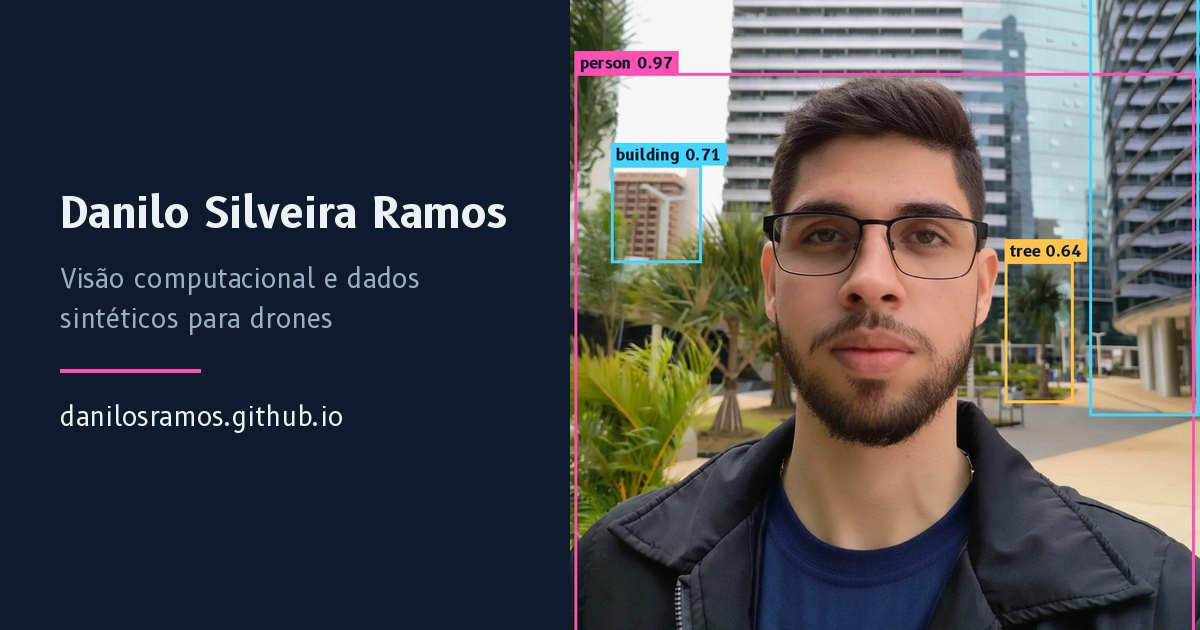
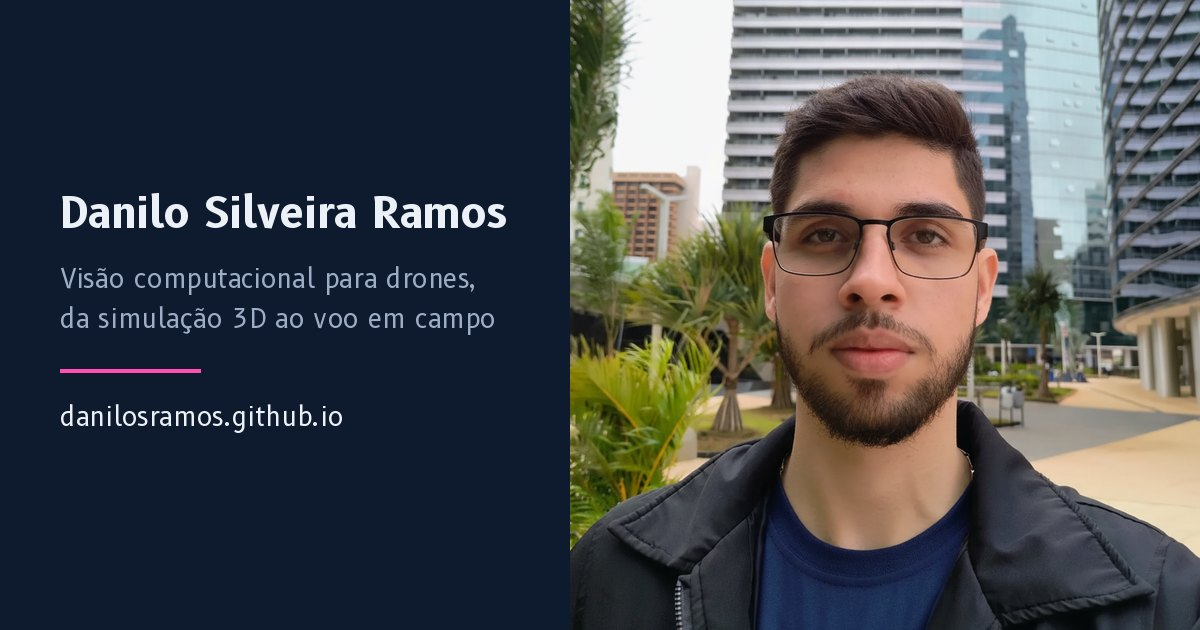
Atualiza o portfólio: foto sem anotação, atividades e certificados
- Remove as caixas do detector de objetos da foto (e o botão e a legenda)
- Descreve o trabalho na Global Drones: ambientes 3D, testes de YOLO e
  RF-DETR, orçamentos de equipamentos e pilotagem de drones
- Remove o projeto Meninas Digitais
- Troca cursos e certificados pelos cinco principais

Claude-Session: https://claude.ai/code/session_01Jno4X66Je8qHB2arBj1S2n

Changed region(s): [[0.4625, 0.0, 1.0, 1.0], [0.0308, 0.4222, 0.4008, 0.5429]]

diff --git a/index.html b/index.html
@@ -4,7 +4,7 @@
   <meta charset="utf-8">
   <meta name="viewport" content="width=device-width, initial-scale=1">
   <title>Danilo Silveira Ramos | Portfólio</title>
-  <meta name="description" content="Portfólio de Danilo Silveira Ramos: dados sintéticos e visão computacional para drones. Estudante de TIC na UFSC e Simulation & Dataset Developer na Global Drones.">
+  <meta name="description" content="Portfólio de Danilo Silveira Ramos: visão computacional para drones, da simulação 3D ao voo em campo. Estudante de TIC na UFSC e Simulation & Dataset Developer na Global Drones.">
   <meta name="author" content="Danilo Silveira Ramos">
   <link rel="canonical" href="https://danilosramos.github.io/">
   <link rel="icon" href="assets/img/favicon.svg" type="image/svg+xml">
@@ -13,7 +13,7 @@
 
   <meta property="og:type" content="profile">
   <meta property="og:title" content="Danilo Silveira Ramos">
-  <meta property="og:description" content="Dados sintéticos e visão computacional para drones.">
+  <meta property="og:description" content="Visão computacional para drones, da simulação 3D ao voo em campo.">
   <meta property="og:url" content="https://danilosramos.github.io/">
   <meta property="og:image" content="https://danilosramos.github.io/assets/img/og.jpg">
   <meta property="og:image:width" content="1200">
@@ -54,7 +54,7 @@
     "url": "https://danilosramos.github.io/",
     "image": "https://danilosramos.github.io/assets/img/danilo.jpg",
     "sameAs": ["https://www.linkedin.com/in/danilo-silveira-ramos", "https://github.com/danilosramos"],
-    "knowsAbout": ["Computer vision", "Synthetic data generation", "Drones", "Unreal Engine 5", "Blender"]
+    "knowsAbout": ["Computer vision", "Object detection", "YOLO", "RF-DETR", "Synthetic data generation", "Unreal Engine 5", "Blender", "Drone piloting"]
   }
   </script>
 </head>
@@ -85,8 +85,8 @@
     <section class="hero wrap" id="inicio">
       <div class="hero-text">
         <h1>Danilo Silveira Ramos</h1>
-        <p class="lead" data-l="pt">Crio ambientes 3D que viram dados para treinar visão computacional em drones.</p>
-        <p class="lead" data-l="en">I build 3D worlds that become training data for computer vision on drones.</p>
+        <p class="lead" data-l="pt">Trabalho com visão computacional para drones, da simulação 3D ao voo em campo.</p>
+        <p class="lead" data-l="en">I work on computer vision for drones, from 3D simulation to flying in the field.</p>
         <p class="sub" data-l="pt">Estudo Tecnologias da Informação e Comunicação na UFSC e trabalho como Simulation &amp; Dataset Developer na Global Drones.</p>
         <p class="sub" data-l="en">I study Information and Communication Technologies at UFSC, in Brazil, and work as a Simulation &amp; Dataset Developer at Global Drones.</p>
         <ul class="links">
@@ -96,43 +96,15 @@
         </ul>
       </div>
 
-      <figure class="sample" data-ann="on">
-        <div class="frame">
-          <picture>
-            <source type="image/webp" srcset="assets/img/danilo-600.webp 600w, assets/img/danilo.webp 864w" sizes="(min-width: 900px) 440px, 88vw">
-            <img src="assets/img/danilo.jpg" width="864" height="1184"
-                 alt="Foto de Danilo Silveira Ramos, de óculos e jaqueta escura, em frente a prédios espelhados e palmeiras."
-                 data-attr="alt"
-                 data-pt="Foto de Danilo Silveira Ramos, de óculos e jaqueta escura, em frente a prédios espelhados e palmeiras."
-                 data-en="Photo of Danilo Silveira Ramos, wearing glasses and a dark jacket, in front of glass buildings and palm trees.">
-          </picture>
-          <svg class="boxes" viewBox="0 0 864 1184" aria-hidden="true" focusable="false">
-            <g class="det" style="--i:0;--c:var(--cls-person)">
-              <path class="box" pathLength="1" d="M6 330H856V1180H6Z"/>
-              <g class="tag"><rect x="6" y="294" width="170" height="36"/><text x="15" y="320">person 0.97</text></g>
-            </g>
-            <g class="det" style="--i:1;--c:var(--cls-building)">
-              <path class="box" pathLength="1" d="M712 2H862V800H712Z"/>
-              <g class="tag"><rect x="674" y="2" width="188" height="36"/><text x="683" y="28">building 0.88</text></g>
-            </g>
-            <g class="det" style="--i:2;--c:var(--cls-building)">
-              <path class="box" pathLength="1" d="M56 456H180V590H56Z"/>
-              <g class="tag"><rect x="56" y="420" width="188" height="36"/><text x="65" y="446">building 0.71</text></g>
-            </g>
-            <g class="det" style="--i:3;--c:var(--cls-tree)">
-              <path class="box" pathLength="1" d="M596 588H690V782H596Z"/>
-              <g class="tag"><rect x="596" y="552" width="135" height="36"/><text x="605" y="578">tree 0.64</text></g>
-            </g>
-          </svg>
-        </div>
-        <figcaption>
-          <p data-l="pt">Foto real com o tipo de anotação que um detector de objetos aprende. No trabalho, gero milhares de imagens assim, só que sintéticas.</p>
-          <p data-l="en">A real photo with the kind of annotation an object detector learns from. At work I generate thousands of images like this, only synthetic.</p>
-          <button type="button" class="ann-toggle" data-toggle-ann>
-            <span class="when-on"><span data-l="pt">Ocultar anotação</span><span data-l="en">Hide annotation</span></span>
-            <span class="when-off"><span data-l="pt">Mostrar anotação</span><span data-l="en">Show annotation</span></span>
-          </button>
-        </figcaption>
+      <figure class="portrait">
+        <picture>
+          <source type="image/webp" srcset="assets/img/danilo-600.webp 600w, assets/img/danilo.webp 864w" sizes="(min-width: 900px) 440px, 88vw">
+          <img src="assets/img/danilo.jpg" width="864" height="1184"
+               alt="Foto de Danilo Silveira Ramos, de óculos e jaqueta escura, em frente a prédios espelhados e palmeiras."
+               data-attr="alt"
+               data-pt="Foto de Danilo Silveira Ramos, de óculos e jaqueta escura, em frente a prédios espelhados e palmeiras."
+               data-en="Photo of Danilo Silveira Ramos, wearing glasses and a dark jacket, in front of glass buildings and palm trees.">
+        </picture>
       </figure>
     </section>
 
@@ -144,11 +116,11 @@
           <div class="prose">
             <div data-l="pt">
               <p>Sou estudante de Tecnologias da Informação e Comunicação na UFSC Araranguá, com formatura prevista para dezembro de 2028. Comecei em Engenharia de Computação, onde descobri a visão computacional, e hoje trabalho com ela na prática.</p>
-              <p>Na Global Drones, crio cenários 3D fotorrealistas em Unreal Engine 5 e Blender para gerar imagens sintéticas que treinam modelos de detecção para drones autônomos. Antes disso, criei modelos 3D de patologias para realidade mista no LabTeC/UFSC, avaliei respostas de IA em português e inglês na Outlier e produzi conteúdo de computação e matemática para o Quizlet.</p>
+              <p>Na Global Drones, crio ambientes 3D fotorrealistas em Unreal Engine 5 e Blender para gerar imagens de treino, testo algoritmos de detecção de objetos como YOLO e RF-DETR, faço orçamentos de equipamentos e sou piloto de drone nos testes em campo. Antes disso, criei modelos 3D de patologias para realidade mista no LabTeC/UFSC, avaliei respostas de IA em português e inglês na Outlier e produzi conteúdo de computação e matemática para o Quizlet.</p>
             </div>
             <div data-l="en">
               <p>I'm an Information and Communication Technologies student at UFSC Araranguá, Brazil, graduating in December 2028. I started out in Computer Engineering, where I found computer vision, and now I work with it every day.</p>
-              <p>At Global Drones, I build photorealistic 3D scenes in Unreal Engine 5 and Blender to generate synthetic images that train detection models for autonomous drones. Before that, I created 3D pathology models for mixed reality at LabTeC/UFSC, evaluated AI responses in Portuguese and English at Outlier, and wrote computing and math content for Quizlet.</p>
+              <p>At Global Drones, I build photorealistic 3D environments in Unreal Engine 5 and Blender to generate training images, test object detection algorithms such as YOLO and RF-DETR, prepare equipment budgets and fly drones as a pilot in field tests. Before that, I created 3D pathology models for mixed reality at LabTeC/UFSC, evaluated AI responses in Portuguese and English at Outlier, and wrote computing and math content for Quizlet.</p>
             </div>
           </div>
           <dl class="facts">
@@ -189,7 +161,7 @@
           <li class="wp is-now">
             <svg class="wp-mark" viewBox="0 0 24 24" aria-hidden="true"><path d="M12 1 14.6 9.4 23 12 14.6 14.6 12 23 9.4 14.6 1 12 9.4 9.4Z"/></svg>
             <p class="wp-when"><span data-l="pt">2026, agora</span><span data-l="en">2026, now</span></p>
-            <p class="wp-what"><span data-l="pt">Dados sintéticos e visão computacional para drones na Global Drones</span><span data-l="en">Synthetic data and computer vision for drones at Global Drones</span></p>
+            <p class="wp-what"><span data-l="pt">Simulação 3D, testes de detecção e voo de drones na Global Drones</span><span data-l="en">3D simulation, detection tests and drone flights at Global Drones</span></p>
           </li>
           <li class="wp">
             <svg class="wp-mark" viewBox="0 0 24 24" aria-hidden="true"><path d="M12 1 14.6 9.4 23 12 14.6 14.6 12 23 9.4 14.6 1 12 9.4 9.4Z"/></svg>
@@ -228,16 +200,18 @@
               <h4>Simulation &amp; Dataset Developer</h4>
               <p class="xp-org">Global Drones</p>
               <ul data-l="pt">
-                <li>Crio ambientes 3D fotorrealistas e cenários aéreos em Unreal Engine 5 para gerar datasets sintéticos de visão computacional.</li>
-                <li>Modelo, texturizo e otimizo assets 3D (drones, aves e obstáculos) em Blender e Substance Painter.</li>
-                <li>Gero imagens anotadas com variações de luz e clima para reduzir a diferença entre simulação e mundo real em um sistema de Detect and Avoid (DAA).</li>
+                <li>Crio ambientes 3D fotorrealistas e cenários aéreos em Unreal Engine 5 e Blender, com assets próprios (drones, aves e obstáculos), para gerar datasets sintéticos com variações de luz e clima para um sistema de Detect and Avoid (DAA).</li>
                 <li>Desenvolvi um pipeline em Python que exporta mais de 8.000 imagens anotadas no formato YOLO.</li>
+                <li>Testo algoritmos de detecção de objetos, como YOLO e RF-DETR.</li>
+                <li>Faço orçamentos de equipamentos para o projeto.</li>
+                <li>Sou piloto de drone nos testes em campo.</li>
               </ul>
               <ul data-l="en">
-                <li>Build photorealistic 3D environments and aerial scenarios in Unreal Engine 5 to generate synthetic computer vision datasets.</li>
-                <li>Model, texture and optimize 3D assets (drones, birds and obstacles) in Blender and Substance Painter.</li>
-                <li>Generate annotated images across lighting and weather conditions to narrow the sim-to-real gap for a Detect and Avoid (DAA) system.</li>
+                <li>Build photorealistic 3D environments and aerial scenarios in Unreal Engine 5 and Blender, with custom assets (drones, birds and obstacles), to generate synthetic datasets across lighting and weather conditions for a Detect and Avoid (DAA) system.</li>
                 <li>Built a Python pipeline that exports 8,000+ annotated images in YOLO format.</li>
+                <li>Test object detection algorithms such as YOLO and RF-DETR.</li>
+                <li>Prepare equipment budgets for the project.</li>
+                <li>Fly drones as a pilot in field tests.</li>
               </ul>
               <p class="note"><span data-l="pt">Por contrato de confidencialidade, este trabalho aparece só em texto.</span><span data-l="en">Under a confidentiality agreement, this work is described in text only.</span></p>
             </div>
@@ -321,11 +295,6 @@
             <p class="stack">Blender, Substance Painter, HoloLens 2</p>
           </li>
           <li>
-            <h4><span data-l="pt">Plataforma de ensino on-line (Meninas Digitais)</span><span data-l="en">Online learning platform (Meninas Digitais)</span></h4>
-            <p><span data-l="pt">Plataforma full-stack de cursos on-line.</span><span data-l="en">Full-stack platform for online courses.</span></p>
-            <p class="stack">TypeScript, NestJS, Next.js, Docker</p>
-          </li>
-          <li>
             <h4>KetMaker</h4>
             <p><span data-l="pt">Simulador de circuitos quânticos.</span><span data-l="en">Quantum circuit simulator.</span></p>
             <p class="stack">Python, Flask</p>
@@ -338,26 +307,35 @@
         </ul>
         <p class="more"><span data-l="pt">Outros projetos no</span><span data-l="en">More projects on</span> <a href="https://github.com/danilosramos" target="_blank" rel="noopener">GitHub</a>.</p>
 
-        <div class="two-col">
-          <div>
-            <h3><span data-l="pt">Cursos e certificados</span><span data-l="en">Courses and certificates</span></h3>
-            <ul class="plain" lang="en">
-              <li>Introduction to Prompt Engineering</li>
-              <li>Artificial Intelligence: Your Ally in the Java and Cloud Journey</li>
-              <li>Java Programming Language Fundamentals</li>
-              <li>Java Control Structures</li>
-            </ul>
-          </div>
-          <div>
-            <h3><span data-l="pt">Eventos</span><span data-l="en">Events</span></h3>
-            <ul class="plain">
-              <li><span data-l="pt">Summit Cidades 2025: apresentação do HoloAnaPath</span><span data-l="en">Summit Cidades 2025: presented HoloAnaPath</span></li>
-              <li><span data-l="pt">SNCT 2025 (Semana Nacional de Ciência e Tecnologia): apresentação do HoloAnaPath</span><span data-l="en">SNCT 2025 (Brazil's National Science and Technology Week): presented HoloAnaPath</span></li>
-              <li><span data-l="pt">Startup Weekend: duas participações</span><span data-l="en">Startup Weekend: took part twice</span></li>
-              <li>ACIVA Career Fair 2024</li>
-            </ul>
-          </div>
-        </div>
+        <h3><span data-l="pt">Cursos e certificados</span><span data-l="en">Courses and certificates</span></h3>
+        <ul class="projects certs">
+          <li>
+            <h4><span data-l="pt">Semana Nacional de Ciência e Tecnologia 2025 (SNCT)</span><span data-l="en">National Science and Technology Week 2025 (SNCT)</span></h4>
+            <p><span data-l="pt">Apresentação do projeto HoloAnaPath.</span><span data-l="en">Presented the HoloAnaPath project.</span></p>
+            <p class="stack"><span data-l="pt">MCTI, out. 2025</span><span data-l="en">MCTI, Oct 2025</span></p>
+          </li>
+          <li>
+            <h4 lang="en">Pre-MBA in Sales and Marketing with AI</h4>
+            <p><span data-l="pt">Vendas, marketing e negócios com apoio de IA.</span><span data-l="en">Sales, marketing and business with AI.</span></p>
+            <p class="stack"><span data-l="pt">Faculdade Hub, ago. 2025</span><span data-l="en">Faculdade Hub, Aug 2025</span></p>
+          </li>
+          <li>
+            <h4>Summit Cidades 2025</h4>
+            <p><span data-l="pt">Apresentação do projeto HoloAnaPath.</span><span data-l="en">Presented the HoloAnaPath project.</span></p>
+            <p class="stack"><span data-l="pt">Summit Cidades Brasil, jun. 2025</span><span data-l="en">Summit Cidades Brasil, Jun 2025</span></p>
+          </li>
+          <li>
+            <h4 lang="en">Masterclass: The Rules of the Game</h4>
+            <p><span data-l="pt">Psicologia e desenvolvimento pessoal.</span><span data-l="en">Psychology and personal development.</span></p>
+            <p class="stack"><span data-l="pt">Reservatório de Dopamina, jan. 2025</span><span data-l="en">Reservatório de Dopamina, Jan 2025</span></p>
+          </li>
+          <li>
+            <h4 lang="en">3D Modeling and Animation with Blender</h4>
+            <p><span data-l="pt">Modelagem 3D, texturização e animação.</span><span data-l="en">3D modeling, texturing and animation.</span></p>
+            <p class="stack"><span data-l="pt">LabTeC, UFSC, mar. 2024</span><span data-l="en">LabTeC, UFSC, Mar 2024</span></p>
+          </li>
+        </ul>
+        <p class="more"><span data-l="pt">Também participei de duas edições do Startup Weekend.</span><span data-l="en">I also took part in two Startup Weekends.</span></p>
       </div>
     </section>
 
@@ -370,6 +348,7 @@
             <h3><span data-l="pt">Visão computacional e dados</span><span data-l="en">Computer vision and data</span></h3>
             <ul class="chips">
               <li><span data-l="pt">Geração de dados sintéticos</span><span data-l="en">Synthetic data generation</span></li>
+              <li><span data-l="pt">Testes de YOLO e RF-DETR</span><span data-l="en">YOLO and RF-DETR testing</span></li>
               <li><span data-l="pt">Anotação no formato YOLO</span><span data-l="en">YOLO-format annotation</span></li>
               <li>OpenCV</li>
               <li><span data-l="pt">Avaliação multimodal e RLHF</span><span data-l="en">Multimodal evaluation and RLHF</span></li>
@@ -413,6 +392,7 @@
             <h3><span data-l="pt">Drones e embarcados</span><span data-l="en">Drones and embedded</span></h3>
             <ul class="chips">
               <li><span data-l="pt">Pilotagem de drones em campo</span><span data-l="en">Field drone piloting</span></li>
+              <li><span data-l="pt">Orçamento de equipamentos</span><span data-l="en">Equipment budgeting</span></li>
               <li><span data-l="pt">C para microcontroladores</span><span data-l="en">C for microcontrollers</span></li>
               <li>Assembly</li>
             </ul>

diff --git a/assets/css/style.css b/assets/css/style.css
@@ -27,12 +27,7 @@
   --rule-strong: #3E5578;  /* linhas tracejadas e sublinhados */
   --cloud: #ECF1F7;        /* texto principal */
   --haze: #9DAEC4;         /* texto secundário */
-  --route: #FF4FB2;        /* rota, foco, caixa "person" */
-
-  /* Classes do detector (só na foto) */
-  --cls-person: var(--route);
-  --cls-building: #45D3FF;
-  --cls-tree: #FFC24A;
+  --route: #FF4FB2;        /* rota e foco */
 
   --max: 1120px;
   --font: "B612", "Segoe UI", system-ui, sans-serif;
@@ -169,62 +164,17 @@ h1, h2, h3, h4 { font-weight: 700; line-height: 1.2; }
 }
 .btn:hover { border-color: var(--route); }
 
-/* Foto anotada como amostra de dataset */
-.sample { margin: 0; width: 100%; max-width: 440px; }
-@media (min-width: 900px) { .sample { justify-self: end; } }
-
-.frame {
-  position: relative;
+/* Foto */
+.portrait {
+  margin: 0; width: 100%; max-width: 440px;
   aspect-ratio: 864 / 1184;
   border: 1px solid var(--rule);
   border-radius: 3px;
   overflow: hidden;
   background: var(--fuselage);
 }
-.frame img { display: block; width: 100%; height: 100%; object-fit: cover; }
-.boxes {
-  position: absolute; inset: 0; width: 100%; height: 100%;
-  transition: opacity .25s ease;
-}
-.sample[data-ann="off"] .boxes { opacity: 0; }
-
-.det .box {
-  fill: none;
-  stroke: var(--c);
-  stroke-width: 4;
-  stroke-dasharray: 1;
-  stroke-dashoffset: 1;
-  animation: draw .75s cubic-bezier(.25, .7, .2, 1) forwards;
-  animation-delay: calc(.35s + var(--i) * .17s);
-}
-.det .tag { opacity: 0; animation: appear .25s ease-out forwards; animation-delay: calc(.8s + var(--i) * .17s); }
-.det .tag rect { fill: var(--c); }
-.det .tag text { fill: var(--night); font-family: var(--font); font-weight: 700; font-size: 26px; }
-
-@keyframes draw { to { stroke-dashoffset: 0; } }
-@keyframes appear { to { opacity: 1; } }
-
-@media (prefers-reduced-motion: reduce) {
-  .det .box { animation: none; stroke-dashoffset: 0; }
-  .det .tag { animation: none; opacity: 1; }
-  .boxes { transition: none; }
-}
-
-.sample figcaption {
-  margin-top: 1rem;
-  color: var(--haze);
-  font-size: .9rem; line-height: 1.55;
-}
-.sample figcaption p { margin: 0 0 .8rem; }
-.ann-toggle {
-  font: inherit; font-size: .875rem; font-weight: 700;
-  color: var(--cloud); background: transparent;
-  border: 1px solid var(--rule-strong); border-radius: 3px;
-  padding: .4rem .8rem; cursor: pointer;
-}
-.ann-toggle:hover { border-color: var(--route); }
-.sample[data-ann="on"] .when-off,
-.sample[data-ann="off"] .when-on { display: none; }
+@media (min-width: 900px) { .portrait { justify-self: end; } }
+.portrait img { display: block; width: 100%; height: 100%; object-fit: cover; }
 
 /* ---------- Seções ---------- */
 .block {
@@ -362,7 +312,7 @@ h1, h2, h3, h4 { font-weight: 700; line-height: 1.2; }
 .foot p { margin: 0; max-width: 70ch; }
 
 @media print {
-  .top, .ann-toggle, .skip { display: none !important; }
+  .top, .skip { display: none !important; }
   body { background: #fff; color: #000; }
   .block { border-color: #ccc; }
 }

diff --git a/assets/js/main.js b/assets/js/main.js
@@ -1,4 +1,4 @@
-/* Portfólio de Danilo Silveira Ramos: idioma (PT/EN) e anotação da foto */
+/* Portfólio de Danilo Silveira Ramos: troca de idioma (PT/EN) */
 (function () {
   var root = document.documentElement;
   var KEY = 'portfolio-lang';
@@ -37,15 +37,6 @@
   for (var k = 0; k < langButtons.length; k++) {
     langButtons[k].addEventListener('click', function () {
       applyLang(this.getAttribute('data-set-lang'), true);
-    });
-  }
-
-  // Mostrar/ocultar as caixas do detector na foto
-  var sample = document.querySelector('.sample');
-  var toggle = document.querySelector('[data-toggle-ann]');
-  if (sample && toggle) {
-    toggle.addEventListener('click', function () {
-      sample.setAttribute('data-ann', sample.getAttribute('data-ann') === 'off' ? 'on' : 'off');
     });
   }
 })();

diff --git a/README.md b/README.md
@@ -8,8 +8,8 @@ Site estático (HTML, CSS e JavaScript puros), sem build. Para publicar uma muda
 
 - **Textos:** tudo está em `index.html`. Cada texto aparece duas vezes, uma em português (`data-l="pt"`) e outra em inglês (`data-l="en"`). Ao mudar um, mude o outro também.
 - **Estilo:** `assets/css/style.css`. As cores ficam no topo, em `:root`.
-- **Troca de idioma e botão da anotação:** `assets/js/main.js`.
-- **Foto e caixas do detector:** a foto está em `assets/img/`. As caixas são o `<svg class="boxes">` no `index.html`, em coordenadas da foto original (864 × 1184 px).
+- **Troca de idioma:** `assets/js/main.js`.
+- **Foto:** `assets/img/` (`danilo.jpg`, `danilo.webp` e `danilo-600.webp`). A imagem de compartilhamento em redes sociais é `og.jpg`.
 - **Link direto em inglês:** https://danilosramos.github.io/?lang=en
 
 ## Créditos
